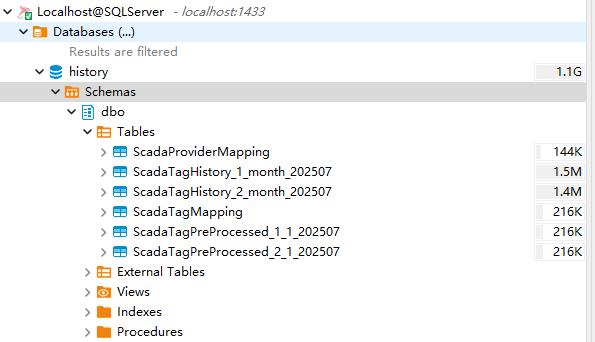
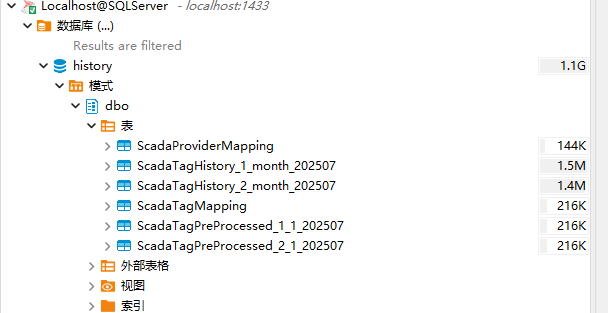
1

Changed region(s): [[0.0, 0.0, 0.9983, 1.0], [0.9076, 0.4313, 0.9983, 0.8051]]

diff --git a/docs/management-platform/databases/database-table-reference/tag-table-reference/relational-database-table-schema.md b/docs/management-platform/databases/database-table-reference/tag-table-reference/relational-database-table-schema.md
@@ -1,20 +1,18 @@
-# Relational Database Table Schema
+# 关系型数据库表结构说明
 
-The VC Hub system employs a shared table structure definition for four traditional relational databases: SQLite, SQL Server, PostgreSQL, and MySQL. This unified schema ensures consistent data management and simplifies integration across different database platforms.
+SQLite、SQLServer、PostgreSQL、MySQL这4种传统关系型数据库共享同一套表结构定义   
 
-By adopting a common structure, users can seamlessly switch between supported relational databases without needing to adjust their historical or event data configurations.
+## 边历史库
 
-## TagHistory
+变量历史库在数据库中至少使用3种不同的表
 
-The Tag History Repository typically utilizes at least three distinct database tables
-
-| **Table Name**| **Description** | **Column References** |
-|--------------------|-----------|----------------------|
-| ScadaProviderMapping                                                | Registry of historical data source nodes and repository names, used to identify the origins of historical data. | ScadaTagMapping.ProviderId = ScadaProviderMapping.Id  ScadaTagHistory.ProviderId = ScadaProviderMapping.Id  ScadaTagHistory_X_X_X.ProviderId = ScadaProviderMapping.Id |
-| ScadaTagMapping                                                     | Registry of historical data tags and tag value types, used to register tags and provide tag IDs. | ScadaTagHistory.TagId = ScadaTagMapping.Id  ScadaTagHistory_X_X_X.TagId = ScadaTagMapping.Id |
-| ScadaTagHistory                                                     | This table stores raw tag historical data. When the historical database configuration is set to non-partitioned mode, the data is saved in this table. |                                                                                                                                                                        |
-| ScadaTagHistory_{**ProvideId**}_{**PartitonSize**}_{**DateKey**}    | This table stores raw tag historical data. When the historical database configuration is set to partitioned mode, the data is saved in this table.  There will be multiple tables that fit this format depending on:   <br>**ProviderId** (ScadaProviderMapping.Id)  <br>**PartitonSize**(day、week、month、quarter、halfyear、year)  <br>**DateKey**(DateKey calculated based on the current time and partition size.) |                                                                                                                                                                        |
-| ScadaTagPreProcessed_{**ProvideId**}_{**WindowSize**}_{**DateKey**} | This table stores preprocessed data. When the historical repository configuration enables preprocessing, the raw data is stored in this table according to the preprocessing settings. Multiple tables may follow this format, depending on the specific configuration <br> **ProviderId**(ScadaProviderMapping.Id)  <br>**WindowSize**  (Historical database configuration)  <br>**DateKey** (Grouped by original data timestamp using the `yyyyMM` format) ||
+| **表名称**| **表说明**| **列引用**|
+|:---------------------------------------------------------------------|:-----------------------------------------------------------------------------------------------------------------------------------------------------------------------------------------------------------------------------------------------------------------------------------------------------------------------------------------------------------------------------------------------------------------------------------------------------------------------------------------------------------------------------------------------------------------------------------------------|:------------------------------------------------------------------------------------------------------------------------------------------------------------------------|
+| ScadaProviderMapping                                                | 历史数据来源节点和历史库名称的注册表，用于标识历史数据来源| ScadaTagMapping.ProviderId = ScadaProviderMapping.Id  ScadaTagHistory.ProviderId = ScadaProviderMapping.Id  ScadaTagHistory_X_X_X.ProviderId = ScadaProviderMapping.Id |
+| ScadaTagMapping                                                     | 历史数据变量和变量值类型注册表，用于注册变量和提供变量Id  | ScadaTagHistory.TagId = ScadaTagMapping.Id  ScadaTagHistory_X_X_X.TagId = ScadaTagMapping.Id  |
+| ScadaTagHistory                                                     | 此表存储原始变量历史数据，当历史库配置选择不分区时，数据存储到此表 |  
+| ScadaTagHistory_{**ProvideId**}_{**PartitonSize**}_{**DateKey**}    | 此表存储原始变量历史数据，当历史库配置选择分区时，数据存储到此表  将有多个表适合此格式，具体取决于  <br>**ProviderId** **历史数据来源**(ScadaProviderMapping.Id)  <br>**PartitonSize 历史库分区大小**(day、week、month、quarter、halfyear、year)  <br>**DateKey 时间分区键**(根据当前时间和分区大小计算出的分区键)| 
+| ScadaTagPreProcessed_{**ProvideId**}_{**WindowSize**}_{**DateKey**} | 此表存储着预处理数据，当历史库配置开启预处理时，会将原始数据按照预处理配置存储到此表中   将有多个表适合此格式，具体取决于  <br>**ProviderId** **历史数据来源**(ScadaProviderMapping.Id)  <br>**WindowSize 预处理时间窗口(历史库配置)**  <br>**DateKey 时间分区键**(根据原始数据时间按照yyyyMM分组)  | 
 
 ![alt text](2.png)
 
@@ -22,90 +20,94 @@ The Tag History Repository typically utilizes at least three distinct database t
 
 ## ScadaProviderMapping
 
-The tag is associated with an asset, and the asset is linked to a historical repository. The name of the historical repository, combined with the node name of the current historical data source, forms the structure of this table.
-A registry of historical data source node names and repository names is used to identify the origin of historical data.
+变量会绑定资产，资产会绑定历史库，历史库名称和当前历史数据来源的节点的节点名称构成了此表
 
-| **Column Name** | **Data Type** | **Description**                                                                                                   |
-|-----------------|---------------|-------------------------------------------------------------------------------------------------------------------|
-| Id              | BigInt        | Auto-incrementing ID. Referenced by the tables `ScadaTagMapping`, `ScadaTagHistory`, and `ScadaTagHistory_X_X_X`. |
-| Node            | String        | Node name of the data source.                                                                                     |
-| Provider        | String        | The name of the historical database bound to the asset.                                                           |
+历史数据来源节点的节点名称和历史库名称的注册表，用于标识历史数据来源。
+
+| **列名称**   | **数据类型** | **描述**|
+|:----------|:----------|:-------------------------------------------------------------------------------------|
+| Id       | BigInt   | 自增 Id。<br>被表`ScadaTagMapping`、`ScadaTagHistory`、`ScadaTagHistory_X_X_X`所引用 |
+| Node     | String   | 数据来源节点的节点名称                                                              |
+| Provider | String   | 资产绑定的历史库的历史库名称或报警历史库名称                                        |
+
+
 
 ## ScadaTagMapping
 
-Registry of historical data tags and tag value types, used to register tags and provide tag IDs.
+历史数据变量和变量值类型注册表，用于注册变量和提供变量Id
 
-| **Column Name** | **Data Type** | **Description**                                                                               |
-|-----------------|---------------|-----------------------------------------------------------------------------------------------|
-| Id              | BigInt        | Auto-incrementing ID. Referenced by the tables `ScadaTagHistory` and `ScadaTagHistory_X_X_X`. |
-| Tag             | String        | The name of tag                                                                               |
-| Type            | TinyInt       | Data type used for tag storage 1: Integer 2: String 3: Double 4: Boolean 5: DateTime          |
-| ProviderId      | BigInt        | Source of ScadaProviderMapping ID                                                             |
-| NormalizedName  | String        | String After Tag Is Converted to Chinese Pinyin                                               |
+| 列名称         | 数据类型 | 描述|
+|:----------------|:----------|:---------------------------------------------------------------------------|
+| Id             | BigInt   | 自增 Id。<br>被表`ScadaTagHistory`、`ScadaTagHistory_X_X_X`所引用           |
+| Tag            | String   | 变量名称                                                                  |
+| Type           | TinyInt  | 变量存储的数据类型  1: Integer 2: String 3: Double 4: Boolean 5: DateTime |
+| ProviderId     | BigInt   | 来源 ScadaProviderMapping 的 Id                                           |
+| NormalizedName | String   | 变量转中文拼音后的字符串                                                  |
 
-## ScadaTagHistory
+## ScadaTagHistory Or ScadaTagHistory_{ProvideId}_ {PartitonSize}_{DateKey}
 
-**Raw Tag History Storage**
+**存储原始变量历史数据**
 
-When the historical database is configured without partitioning, all raw tag history data is stored in the table **ScadaTagHistory**.
+当历史库配置关闭分区时，数据存储到 **ScadaTagHistory**
 
-When partitioning is enabled, the data is stored in dynamically generated tables following the naming convention:
+启用分区后，数据将按照以下命名约定存储在动态生成的表中：
 
-**ScadaTagHistory_{ProviderId}_ {PartitionSize}_{DateKey}**
+**ScadaTagHistory_{ProvideId}_ {PartitonSize}_{DateKey}**
 
-| Column Name | Data Type | Description                                                                                                                      |
-|-------------|-----------|----------------------------------------------------------------------------------------------------------------------------------|
-| TagId       | BigInt    | Source of ScadaTagMapping 的 Id                                                                                                  |
-| ProviderId  | BigInt    | Source of ScadaProviderMapping 的 Id                                                                                             |
-| Quality     | Int       | The value of Quality                                                                                                             |
-| IntegerVal  | BigInt    | If the tag’s data type is set to 1 (Integer)  the system will store the tag’s value.  Otherwise, the value will be set to Null.  |
-| DoubleVal   | Double    | If the tag’s data type is set to 3 (Double)  the system will store the tag’s value.  Otherwise, the value will be set to Null.   |
-| BoolVal     | Boolean   | If the tag’s data type is set to 4 (Boolean)  the system will store the tag’s value.  Otherwise, the value will be set to Null.  |
-| StringVal   | String    | If the tag’s data type is set to 2 (String)  the system will store the tag’s value.  Otherwise, the value will be set to Null.   |
-| DateTimeVal | DateTime  | If the tag’s data type is set to 5 (DateTime)  the system will store the tag’s value.  Otherwise, the value will be set to Null. |
-| Timestamp   | BigInt    | Timestamp(milliseconds)                                                                                                          |
+| 列名称      | 数据类型 | 描述                                                   |
+|:-------------|:----------|:--------------------------------------------------------|
+| TagId       | BigInt   | 来源 ScadaTagMapping 的 Id                             |
+| ProviderId  | BigInt   | 来源 ScadaProviderMapping 的 Id                        |
+| Quality     | Int      | 质量位                                                 |
+| IntegerVal  | BigInt   | 如果变量的数据类型是Integer，则保存变量的值，否则为Null  |
+| DoubleVal   | Double   | 如果变量的数据类型是Double，则保存变量的值，否则为Null   |
+| BoolVal     | Boolean  | 如果变量的数据类型是Boolean，则保存变量的值，否则为Null  |
+| StringVal   | String   | 如果变量的数据类型是String，则保存变量的值，否则为Null   |
+| DateTimeVal | DateTime | 如果变量的数据类型是DateTime，则保存变量的值，否则为Null |
+| Timestamp   | BigInt   | 变量值记录时的时间戳(毫秒)                             |
 
-## ScadaTagPreProcessed
+## ScadaTagPreProcessed_{ProvideId}_ {WindowSize}_{DateKey}
 
-When preprocessing is enabled in the historical database, the system performs preprocessing operations on raw data stored in either **ScadaTagHistory** or partitioned tables named **ScadaTagHistory_{ProviderId}_ {PartitionSize}_{DateKey}**.
+当历史库开启预处理时，会对原始数据表**ScadaTagHistory** Or **ScadaTagHistory_{ProvideId}_ {PartitonSize}_{DateKey}** 的原始数据进行预处理
 
-Based on the configured preprocessing time window, timestamp, and data source, the system generates corresponding preprocessing tables using the following naming convention: **ScadaTagPreProcessed_{ProviderId}_ {WindowSize}_{DateKey}**
+根据预处理配置的时间窗口和时间，以及历史数据来源，创建对应的预处理表:
+**ScadaTagPreProcessed_{provideId}_ {WindowSize}_{DateKey}**   
 
-| Column Name      | Data Type | Description                                                                                                                                                                                                                                                                                                                                                                                                                                                                                                                                                                                                                                                                                                                                                                                                                                                                                                                                                                                                                                                   |
-|------------------|-----------|---------------------------------------------------------------------------------------------------------------------------------------------------------------------------------------------------------------------------------------------------------------------------------------------------------------------------------------------------------------------------------------------------------------------------------------------------------------------------------------------------------------------------------------------------------------------------------------------------------------------------------------------------------------------------------------------------------------------------------------------------------------------------------------------------------------------------------------------------------------------------------------------------------------------------------------------------------------------------------------------------------------------------------------------------------------|
-| TagId            | BigInt    | Source of ScadaTagMapping 的 Id                                                                                                                                                                                                                                                                                                                                                                                                                                                                                                                                                                                                                                                                                                                                                                                                                                                                                                                                                                                                                               |
-| Category         | Int       | **Sampling Type** <br>1: Min <br>2: Max <br>3: Avg  <br>- The **IntegerVal** column stores the **count** of data points, representing the total number of valid entries within a given time window or sampling period. <br>- The **DoubleVal** column stores the **average** (`Avg`) value calculated from those data points.  <br>4: Last <br>5: First <br>7: Count <br>11: CountOn And CountOff  <br>- The **IntegerVal** column stores the **CountOn** value, representing the number of times a tag or signal transitioned to an "On" state within a defined time window.*    <br>- The **DoubleVal** column stores the **CountOff** value, indicating the number of transitions to the "Off" state during the same period  <br>12: DurationOn And DurationOff  <br>- The **IntegerVal** column stores the DurationOn value, representing the total time (in seconds) that a tag or signal remained in the "On" state during a specified time window. <br>- The **DoubleVal** column stores the DurationOff value, indicating the total time (in seconds) the tag was in the "Off" state within the same period.) |
-| Timestamp        | BigInt    | When the preprocessing time window is set to **2 minutes**, the system calculates the timestamp for each tag value using the following formula: <br> ```Plain Text Timestamp = floor(TagTime / (2 × 60 × 2000)) × (2 × 60 × 2000) ```   <br>This formula aligns the tag’s original time to the start of its corresponding 2-minute window. For example, if the tag value falls within the time range from `2028-08-01 01:00:00` to `2028-08-01 01:02:00`, the system assigns the timestamp `2028-08-01 01:00:00` to the preprocessed record.                                                                                                                                                                                                                                                                                                                                                                                                                                                                                                                          |
-| Quality          | Int       | The value of Quality                                                                                                                                                                                                                                                                                                                                                                                                                                                                                                                                                                                                                                                                                                                                                                                                                                                                                                                                                                                                                                          |
-| IntegerVal       | BigInt    | <br>- If the tag’s data type is set to `1` (Integer), the system stores the tag’s value; otherwise, the value is set to `Null` <br>- When the sampling type is `Avg`, this column stores the **number of raw data points** collected during the sampling interval. <br>- When the sampling type is `Count`, this column also stores the **number of raw data points** within the sampling interval. <br>- When the sampling type is `CountOn And CountOff`, this column stores the **CountOn** value, representing the number of transitions to the "On" state. <br>- When the sampling type is `DurationOn And DurationOff`, this column stores the **DurationOn** value, indicating the total time the tag remained in the "On" state.                                                                                                                                                                                                                                                                                                                                          |
-| DoubleVal        | Double    | <br>- If the tag’s data type is set to `3` (Double), the system stores the tag’s value; otherwise, the value is set to `Null`. <br>-   When the sampling type is `Avg`, this column stores the **average value** of the raw data points collected during the sampling interval. <br>- When the sampling type is `CountOn And CountOff`, this column stores the **CountOff** value, representing the number of transitions to the "Off" state.<br> - When the sampling type is `DurationOn And DurationOff`, this column stores the **DurationOff** value, indicating the total time the tag remained in the "Off" state.                                                                                                                                                                                                                                                                                                                                                                                                                                                      |
-| BoolVal          | Boolean   | If the tag’s data type is set to `4` (Boolean), the system stores the tag’s value. Otherwise, the value is set to `Null`.                                                                                                                                                                                                                                                                                                                                                                                                                                                                                                                                                                                                                                                                                                                                                                                                                                                                                                                                     |
-| StringVal        | String    | If the tag’s data type is set to `2` (String), the system stores the tag’s value. Otherwise, the value is set to `Null`.                                                                                                                                                                                                                                                                                                                                                                                                                                                                                                                                                                                                                                                                                                                                                                                                                                                                                                                                      |
-| DateTimeVal      | DateTime  | If the tag’s data type is set to `5` (DateTime), the system stores the tag’s value. Otherwise, the value is set to `Null`.                                                                                                                                                                                                                                                                                                                                                                                                                                                                                                                                                                                                                                                                                                                                                                                                                                                                                                                                    |
-| CollectTimestamp | BigInt    | The record time reflects the timestamp associated with the data source for the current sampling type.  If no specific record time is available from the data source, the system defaults to using the same value as the Timestamp field.                                                                                                                                                                                                                                                                                                                                                                                                                                                                                                                                                                                                                                                                                                                                                                                                                      |
+| 列名称           | 数据类型 | 描述 |
+|:------------------|:----------|:--------------------------------------------------------------------------------------------------------------------------------------------------------------------------------------------------------------------------------------------------------------------------------------------------------------------------|
+| TagId            | BigInt   | 来源 ScadaTagMapping 的 Id |
+| Category         | Int      | **采样类型** <br>1: Min <br>2: Max <br>3: Avg <br>- **IntegerVal** 列存储数据点的 **数量**，代表某一指定时间窗口或采样周期内的有效记录总数。<br>- **DoubleVal** 列存储根据上述数据点计算得出的 **平均值**（`Avg`）。 <br>4: Last <br>5: First <br>7: Count <br>11: CountOn And CountOff <br>- **IntegerVal** 列存储 **CountOn** 值，表示在定义的时间窗口内标签或信号切换到“开启”状态的次数。<br>- **DoubleVal** 列存储 **CountOff** 值，表示在同一时间段内切换到“关闭”状态的次数。  <br>12: DurationOn And DurationOff <br>- **IntegerVal** 列存储 DurationOn 值，表示标签或信号在指定时间窗口内保持“开启”状态的总时间（以秒为单位）。<br>- **DoubleVal** 列存储 DurationOff 值，表示标签在同一时间段内保持“关闭”状态的总时间（以秒为单位）。|
+| Timestamp        | BigInt   |当预处理时间窗口设置为 **2 分钟** 时，系统将通过以下公式计算每个标签值对应的时间戳： <br>`Timestamp = floor(TagTime / (2 × 60 × 2000)) × (2 × 60 × 2000)`  <br>该公式的作用是，将标签的原始时间对齐至其所属 2 分钟时间窗口的起始时刻。例如,若某标签值的时间落在 `2028-08-01 01:00:00  ~ 2028-08-01 01:02:00` 这个时间范围内，系统会为该预处理记录分配统一的时间戳 `2028-08-01 01:00:00`。|
+| Quality          | Int      | 质量位 |
+| IntegerVal       | BigInt   | - 如果变量的数据类型是 `1` (Integer)，则保存变量的值，否则为 `Null` <br>- 当采样类型为`Avg`时，此列存储的时这个采样区间该变量 **原始数据的数量**  <br>- 当采样类型为`Count`时，此列存储的时这个采样区间该变量 **原始数据的数量**  <br>- 当采样类型为`CountOn And CountOff`时，此列存储的是 **CountOn** 的值,表示标签进入“开启”状态的次数。  <br>- 当采样类型为`DurationOn And DurationOf`时，此列存储的是**DurationOn** 的值,表示标签处于“开启”状态的总时间。 |
+| DoubleVal        | Double   | - 如果变量的数据类型是 `3` (Double)，则保存变量的值，否则为`Null`  <br>- 当采样类型为 `Avg` 时，此列存储的时这个采样区间该变量原始数据的 **平均值**  <br>- 当采样类型为`CountOn And CountOff`时，此列存储的是**CountOff** 的值,表示标签进入“关闭”状态的次数。  <br>- 当采样类型为`DurationOn And DurationOff`时，此列存储的是 **DurationOff** 的值,表示标签处于“关闭”状态的总时间。|
+| BoolVal          | Boolean  | 如果变量的数据类型是`4` (Boolean)，则保存变量的值，否则为`Null` |
+| StringVal        | String   | 如果变量的数据类型是`2` (String)，则保存变量的值，否则为`Null`   |
+| DateTimeVal      | DateTime | 如果变量的数据类型是`5` (DateTime)，则保存变量的值，否则为`Null` |
+| CollectTimestamp | BigInt   | 记录时间反映的是与当前采样类型下数据源对应的时间戳。若数据源未提供明确的记录时间，系统将默认采用与时间戳（Timestamp）字段相同的值。 |
 
-## Notes
+
+
+## 说明
 
 #### ProviderId
 
-The primary key ID of the `ScadaProviderMapping` table is used to uniquely identify each SCADA data provider configuration.
-In related tables such as `ScadaTagHistory` and `ScadaTagMapping`, this ID is represented as the field `ProviderId`, serving as a foreign key to establish relational integrity between tag records and their associated data providers.
+`ScadaProviderMapping` 表的主键 ID 用于对每个 SCADA 数据提供方配置进行唯一标识。在 `ScadaTagHistory`、`ScadaTagMapping` 等关联表中，该 ID 以 `ProviderId` 字段的形式存在，作为外键用于建立标签记录与其对应数据提供方之间的关联完整性。
 
-#### **WindowSize**
+#### WindowSize
 
-The value configured for the preprocessing time window defines the **sampling interval** used during data preprocessing. It determines how raw historical data is grouped and aggregated over time.
-For example, if the time window is set to **2 minutes**, the system will aggregate and process all tag values that fall within each 2-minute interval, producing one preprocessed record per window
+预处理时间窗口的配置值，决定了数据预处理过程中所采用的 **采样间隔**。该配置值定义了原始历史数据将如何按时间维度进行分组与聚合。例如，若将时间窗口设为 **2 分钟**，系统会对每个 2 分钟时间间隔内的所有标签值进行聚合处理，且每个时间窗口对应生成一条预处理记录。
 
 #### Datekey
 
-The partition key is calculated by applying the system’s partitioning rules to the timestamp of each historical data record. Depending on the partition type—such as daily, monthly, or hourly—the timestamp is transformed into a key that identifies the corresponding partition
+根据历史数据的原始数据的时间，结合分区类型计算出的分区Key
 
-| **Partition Type** | **Calculate Rule**                                                                                      |
-|--------------------|---------------------------------------------------------------------------------------------------------|
-| day                | Historical tag values are recorded using UTC time formatted as `yyyyMMdd`.  **20241105**                |
-| week               | Weeks start on **Monday**. Week index is calculated from **January 1st**, starting at `1`.  **202445**  |
-| month              | UTC time is formatted as `yyyyMM`.   **202411**                                                         |
-| quarter            | UTC time is formatted as `yyyyQ`, where `Q` ranges from `1` to `4`.  **20244**                          |
-| halfyear           | UTC time is formatted as `yyyyH`, where `H` is `1` for the first half and `2` for the second. **20242** |
-| year               | UTC time is formatted as `yyyy`.  **2024**                                                              |
+| **分区类型** | **计算逻辑** |
+|:----------|:-------------------------------------------------------------------------------------------------------------------|
+| day      | 历史数据变量值记录 UTC 时间 按 `yyyyMMdd` 格式化 **例: 20241105**                                                       |
+| week     |  UTC **星期一** 作为每周起始。从每年的 **1 月 1 日** 开始计算周排序(排序索引从 1 开始) **例: 202445** |
+| month    | UTC 时间格式为 `yyyyMM`。例如：202411 |
+| quarter  | UTC 时间格式为 `yyyyQ`，其中 `Q` 的取值范围为 `1` 到 `4`。例如：**20244** |
+| halfyear | UTC 时间格式为 `yyyyH`，其中 `H` 为 `1` 表示上半年，为 `2` 表示下半年。例如：**20242** |
+| year     | UTC 时间格式为 `yyyy`。例如：**2024**|
 

diff --git a/docs/management-platform/databases/database-table-reference/tag-table-reference/index.md b/docs/management-platform/databases/database-table-reference/tag-table-reference/index.md
@@ -1,2 +1,3 @@
-# Tag Table Reference
-When a tag is enabled for historical recording, the VC Hub system automatically creates the corresponding table based on the historical repository configuration assigned to the asset that the tag belongs to. This ensures that historical data is stored in the appropriate structure, aligned with the asset's configuration.
+# 变量历史库
+
+当标签启用历史记录功能后，VC Hub 系统会根据该标签所属资产已配置的历史数据存储库，自动创建对应的数据库表。此机制可确保历史数据以与资产配置相匹配的规范结构进行存储。
